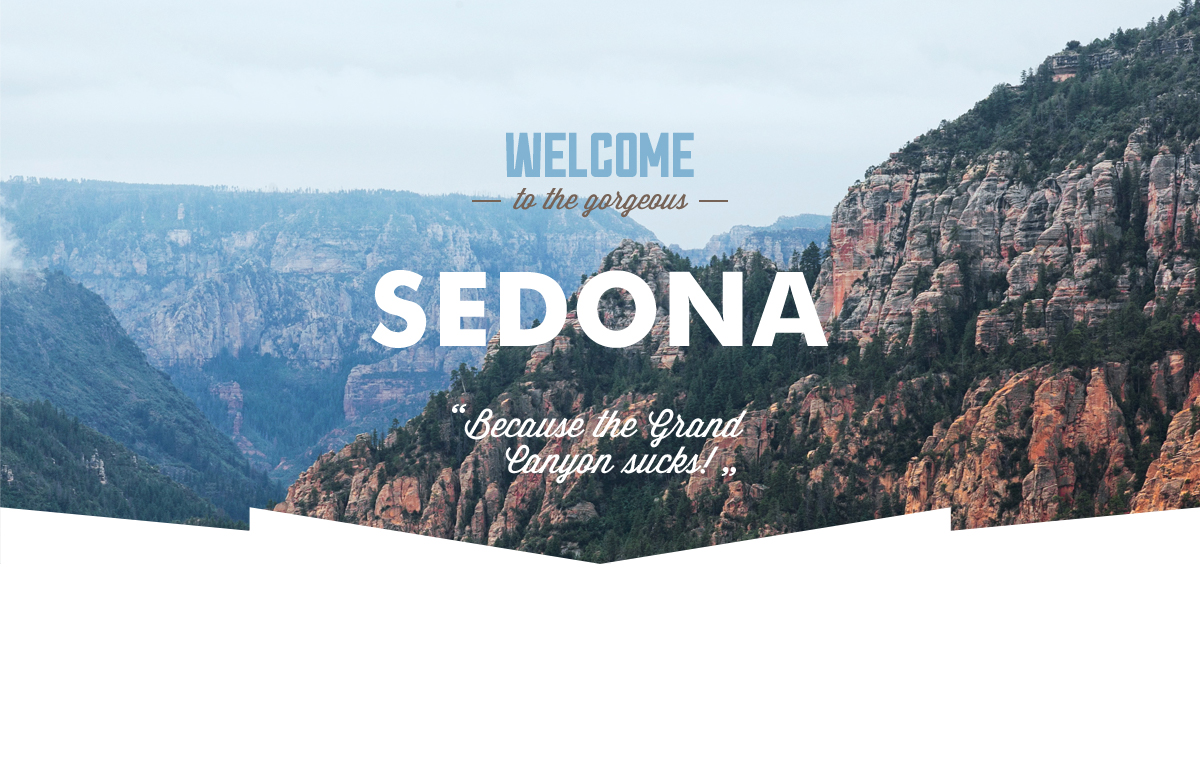
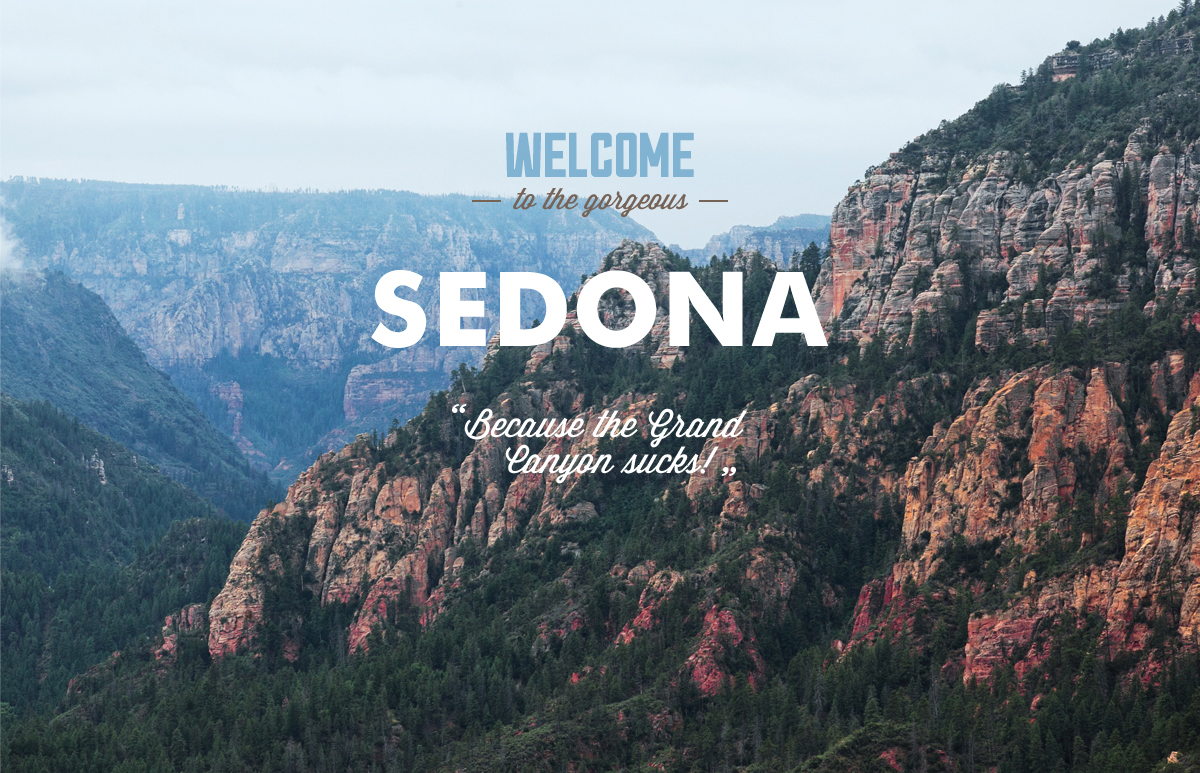
20.11.17 Правки для сдачи 4

diff --git a/css/style.css b/css/style.css
@@ -166,10 +166,17 @@ img {
 
   margin-bottom: 0px;
 
-  background-image: url("../img/sedona-view.jpg");
+  background-image:
+    url("../img/sedona-mask.png"),
+    url("../img/sedona-view.jpg");
+  background-size:
+    100% 273px,
+    100% 100%;
   background-color: #e4f1f9;
   background-repeat: no-repeat;
-  background-position: 0 0;
+  background-position:
+    bottom,
+    0 0;
 }
 
 .main-header-description {
@@ -423,6 +430,8 @@ img {
   padding-bottom: 30px;
 
   text-align: center;
+
+  cursor: pointer;
 }
 
 .button-search-title {
@@ -624,6 +633,15 @@ img {
   box-shadow: 0 10px 30px rgba(0, 0, 0, 0.4);
 }
 
+@keyframes slide {
+  0% {transform: translateY(-30px);}
+  15% {transform: translateY(-25px);}
+  30% {transform: translateY(-20px);}
+  45% {transform: translateY(-15px);}
+  75% {transform: translateY(-10px);}
+  100% {transform: translateY(0px);}
+}
+
 .modal-search {
   display: block;
   position: absolute;
@@ -633,6 +651,9 @@ img {
 
   margin-left: -252px;
   padding: 55px 55px;
+
+  animation-name: slide;
+  animation-duration: 0.6s;
 
   z-index: 10;
 }
@@ -801,7 +822,8 @@ img {
   outline: 2px solid #e5e5e5;
 }
 
-.button-search-count {
+.button-remove,
+.button-add {
   width: 37px;
   box-sizing: border-box;
 
@@ -817,12 +839,15 @@ img {
   cursor: pointer;
 }
 
-.button-search-count:hover,
-.button-search-count:focus {
+.button-remove:hover,
+.button-add:hover,
+.button-remove:focus,
+.button-add:focus {
   color: #000;
 }
 
-.button-search-count:active {
+.button-remove:active,
+.button-add:active {
   color: #81b3d2;
 }
 
@@ -836,6 +861,8 @@ img {
   font-weight: bold;
 
   background-color: #81b3d2;
+
+  cursor: pointer;
 }
 
 .button-form-search:hover,

diff --git a/index.html b/index.html
@@ -127,17 +127,17 @@
                 <div class="item-wrapper">
                   <label for="adult-count">Взрослые:</label>
                   <p>
-                    <button class="button button-search-count" type="button">-</button>
+                    <button class="button button-remove" type="button">-</button>
                     <input type="text" name="adult" value="2" id="adult-count">
-                    <button class="button button-search-count" type="button">+</button>
+                    <button class="button button-add" type="button">+</button>
                   </p>
                 </div>
                 <div class="item-wrapper">
                   <label for="children-count">Дети:</label>
                   <p>
-                    <button class="button button-search-count" type="button">-</button>
+                    <button class="button button-remove" type="button">-</button>
                     <input type="text" name="children" value="0" id="children-count">
-                    <button class="button button-search-count" type="button">+</button>
+                    <button class="button button-add" type="button">+</button>
                   </p>
                 </div>
               </div>
@@ -193,6 +193,6 @@
         </section>
       </footer>
     </div>
-    <script src="js/scripts.js"></script>
+    <script src="js/modal-search.js"></script>
   </body>
 </html>

diff --git a/catalog.html b/catalog.html
@@ -50,12 +50,12 @@
               <legend class="filters-legend">Тип жилья:</legend>
               <ul class="filters-lodging">
                 <li class="filters-option">
-                  <input class="filter-checkbox" type="checkbox" name="hostel" id="hostel-id" checked>
-                  <label for="hostel-id">Гостиница</label>
+                  <input class="filter-checkbox" type="checkbox" name="hotel" id="hotel-id" checked>
+                  <label for="hotel-id">Гостиница</label>
                 </li>
                 <li class="filters-option">
-                  <input class="filter-checkbox" type="checkbox" name="hotel" id="hotel-id" checked>
-                  <label for="hotel-id">Мотель</label>
+                  <input class="filter-checkbox" type="checkbox" name="motel" id="motel-id" checked>
+                  <label for="motel-id">Мотель</label>
                 </li>
                 <li class="filters-option">
                   <input class="filter-checkbox" type="checkbox" name="apartments" id="apartments-id" checked>
@@ -217,5 +217,6 @@
         </section>
       </footer>
     </div>
+    <script src="js/hotel-filter.js"></script>
   </body>
 </html>

diff --git a/js/hotel-filter.js b/js/hotel-filter.js
@@ -1,0 +1,25 @@
+
+  var form = document.querySelector(".filters-form");
+  var pool = form.querySelector("[name=pool]");
+  var parking = form.querySelector("[name=parking]");
+  var wifi = form.querySelector("[name=wi-fi]");
+  var hotel = form.querySelector("[name=hotel]");
+  var motel = form.querySelector("[name=motel]");
+  var apartments = form.querySelector("[name=apartments]");
+  var min-price = form.querySelector("[name=min-price]");
+  var max-price = form.querySelector("[name=max-price]");
+
+form.addEventListener("submit", function(evt) {
+  if (!hotel.value && !motel.value && !apartments.value) {
+    evt.preventDefault();
+  } else {
+    localStorage.setItem("pool", pool.value);
+    localStorage.setItem("parking", parking.value);
+    localStorage.setItem("wifi", wifi.value);
+    localStorage.setItem("hotel", hotel.value);
+    localStorage.setItem("motel", motel.value);
+    localStorage.setItem("apartments", apartments.value);
+    localStorage.setItem("min-price", min-price.value);
+    localStorage.setItem("max-price", max-price.value);
+  }
+})

diff --git a/js/modal-search.js b/js/modal-search.js
@@ -1,0 +1,26 @@
+
+    var link = document.querySelector(".button-search");
+    var popup = document.querySelector(".modal-search");
+    var form = popup.querySelector(".search-form");
+    var arrival = popup.querySelector("[name=arrival-date]");
+    var departure = popup.querySelector("[name=departure-date]");
+    var children = popup.querySelector("[name=children]");
+    var adult = popup.querySelector("[name=adult]");
+    var storageArrival = localStorage.getItem("arrival");
+
+  link.addEventListener("click", function(evt) {
+    evt.preventDefault();
+    popup.classList.toggle("modal-hide");
+    arrival.focus();
+  })
+
+  form.addEventListener("submit", function(evt) {
+    if (!arrival.value || !departure.value || !children.value || !adult.value) {
+      evt.preventDefault();
+    } else {
+      localStorage.setItem("arrival", arrival.value);
+      localStorage.setItem("departure", departure.value);
+      localStorage.setItem("children", children.value);
+      localStorage.setItem("adult", adult.value);
+    }
+  })

diff --git a/Specification-sedona.md b/Specification-sedona.md
@@ -1,0 +1,68 @@
+# Техническое задание на вёрстку
+
+* Название сайта: Седона
+* Домен: пока нет
+
+---
+
+1.  **Общие технические требования**
+
+ * 1.1 Стандарты вёрстки: HTML5, CSS3, прогрессивное улучшение.
+ * 1.2 Сетка: три колонки равной ширины (33%), стоящие вплотную друг к другу без отступов.
+ * 1.3 Два варианта вёрстки:
+	- с фиксированной шириной `1200px` с центровкой основного контента, с некоторыми блоками, которые тянутся на всю ширину окна браузера;
+	- с дополнительной резиновостью (необязательный вариант): диапазон ширин от `768px` до `1200px`. При этом основной шириной является `1200px`, и для неё проверяется полное соответствие макету.
+ * 1.4 Используемые фреймворки: нет.
+ * 1.5 Кроссбраузерность: IE11+, Chrome, Firefox, Opera, Safari.
+ * 1.6 Типографика: частично определена в макете (прочее — на усмотрение разработчика).
+ * 1.7 Используемый шрифт: PT Sans (есть в папке с макетом и на Google Fonts).
+ * 1.8 С макетом предоставлен `styleguide.psd`, содержащий прорисовку состояний элементов интерфейса. При любых расхождениях с макетами он должен иметь наивысший приоритет.
+
+2.  **Пояснения для учащихся**
+
+ * 2.1 В макетах есть скрытые слои с всплывающими окнами. Такие слои в блоке слоёв фотошопа выделены синим цветом.
+ * 2.2 Макеты верстаются постепенно, не нужно сразу выполнять все требования.
+ * 2.3 Ниже в разделе «Обязательные требования» описано поведение блоков, которое должно быть реализовано для получения допуска. Требования из раздела «Дополнительные требования» можно реализовать по желанию для выполнения дополнительных критериев. Некоторые размеры описаны в процентной ширине. Если вы выбрали вариант вёрстки с дополнительной резиновостью, то следуйте указанным процентам. Если вы выбрали вёрстку с фиксированной шириной, то проценты помогут вам высчитать правильные размеры блоков в пикселях.
+
+3.  **Обязательные требования**
+
+   **Все макеты:**
+
+  * 3.1 Контентная область центрируется и не может быть уже макетной ширины.
+  * 3.2 Внутренние отступы слева и справа для главного меню и для внутренней страницы — по 6% от ширины всей контентной области.
+  * 3.3 Логотип не является пунктом меню. Его нужно размечать отдельным элементом.
+  * 3.4 Главное меню: пункт "Информация" не является ссылкой на главную страницу.
+  * 3.5 Главное меню: четыре ячейки по 20% ширины. Для первых двух пунктов выравнивание текста по левому краю, для двух последних — по правому.
+  * 3.6 Ссылки в главном меню: кликабельным должен быть только текст.
+  * 3.7 При достижении `1200px` сетка перестаёт масштабироваться дальше, и слева и справа от неё появляется серый фон, на который сайт бросает лёгкую тень.
+  * 3.8 В трёх блоках футера контент расположен по центру.
+  * 3.9 Логотип Академии в подвале ведёт на [лендинг интенсива «Базовый HTML и CSS»](https://htmlacademy.ru/intensive/htmlcss).
+
+   **sedona-index.psd:**
+
+  * 3.10 Крупное фото: фотография занимает 100% ширины, в её нижней части есть белая маска, которая также масштабируется на 100% ширины, но в отличие от фотографии меняет свои пропорции (то есть высота остаётся постоянной, а ширина — 100%).
+  * 3.11 Фотографии, занимающие по две трети ширины вставляются так, чтобы обрезаться сверху и снизу при увеличении размера (ширина 66%, высота подстраивается под ширину, чтобы не нарушать пропорций, но фото не выходит за отведённую для него зону).
+  * 3.12 По умолчанию, форма поиска гостиницы должна быть открыта.
+  * 3.13 Кнопка «Поиск гостиницы в Седоне» управляет отображением формы поиска гостиницы. Вёрстка модального окна обязательна (смотрите папку слоёв «search form»).
+  * 3.14 Иконка календаря в поле ввода даты должна быть добавлена отдельным элементом для того, чтобы в будущем на неё программист мог повесить событие нажатия для открытия календаря с возможностью выбора даты.
+  * 3.15 Блок карты — достаточная реализация — обычное изображение.
+
+   **sedona-hotels.psd:**
+
+  * 3.16 Логотип — это ссылка на главную страницу.
+  * 3.17 Главное меню и футер совпадают с главной страницей.
+  * 3.18 Фоновое фото другое (размытое и меньшей высоты), но также масштабируется на 100% ширины.
+  * 3.19 Фильтр: верстать с помощью формы, кнопка «Показать» отвечает за отправку формы, при выключенном JavaScript должен осуществляться переход на отдельную страницу (отдельную страницу верстать не нужно).
+  * 3.20 Блок «Стоимость в сутки» — при наведении на любой из маркеров появляется указатель `cursor: pointer`, делать маркеры подвижными не обязательно, цена меняться не должна.
+
+4.  **Дополнительные требования**
+
+   **sedona-index.psd:**
+
+  * 4.1 По умолчанию, форма поиска гостиницы должна быть открыта. При включённом JS, на форму вешается класс скрывающий её.
+  * 4.2 Кнопка «Поиск гостиницы в Седоне» управляет отображением формы поиска гостиницы (смотрите папку слоёв «search form»), необходимо дополнить анимацией «выезда» сверху вниз относительно кнопки, а не окна браузера.
+  * 4.3 Блок карты — реализация по желанию — интерактивная карта, которая также масштабируется на 100% ширины.
+
+   **sedona-hotels.psd:**
+
+  * 4.4 Фильтр: по нажатию кнопки «Показать» осуществляется отправка формы.
